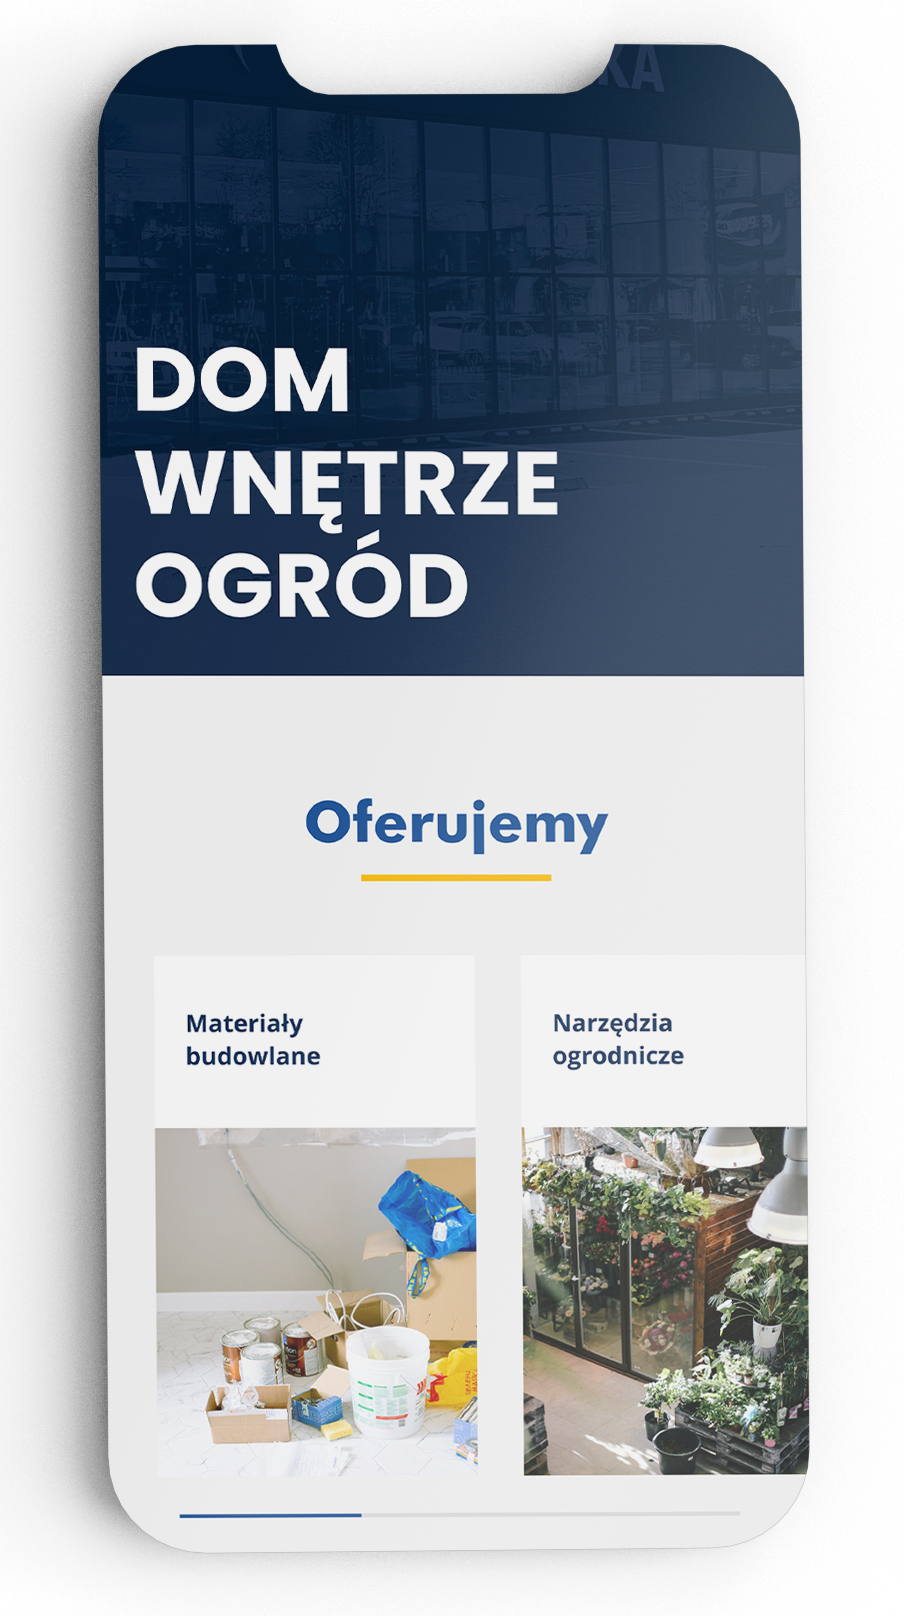
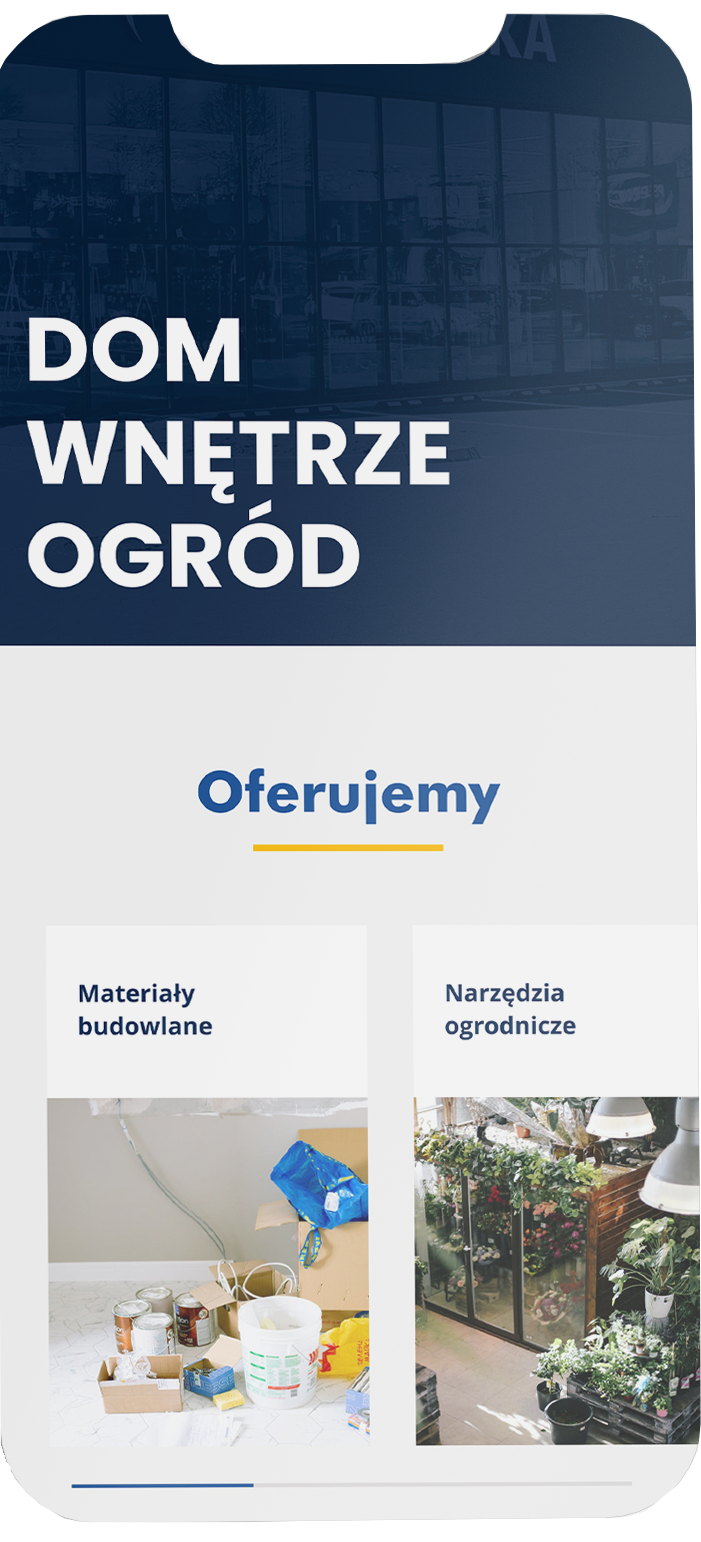
phone image looking good

diff --git a/src/styles/sections/_portfolio.scss b/src/styles/sections/_portfolio.scss
@@ -7,7 +7,7 @@
     flex-direction: column;
 
     .placeholder {
-        padding: 25em;
+        padding: min(25em, 20vw);
         display: flex;
         flex-direction: column;
         justify-content: center;
@@ -67,24 +67,43 @@
                 aspect-ratio: 0.8;
             }
         }
+
         .image {
             // width: 50%;
-            flex-shrink: 0;
-            display: flex;
             overflow: hidden;
+            position: relative;
             background: url("../assets/main-bg.jpg"), lightgray no-repeat;
             background-position-x: 80%;
             background-position-y: 70%;
+            // min-height: 70rem;
 
             img {
-                width: 100%;
-                height: 100%;
-                // align-self: flex-start;
+                background-color: transparent;
+                position: absolute;
+                width: max(60%, 20rem);
+                right: 0;
+                bottom: -10em;
+
+                box-shadow: -40px 50px 63px -24px rgba(0, 0, 0, 0.8);
+                transform-origin: center;
+
                 animation: waving 5s ease-in-out infinite alternate;
 
-                @include mq(small) {
-                    z-index: 2;
+                @include mq(medium) {
+                    width: max(50%, 16rem);
                 }
+
+                @include mq(small) {
+                    top: -10%;
+                    right: -10%;
+                    width: 70%;
+                }
+            }
+
+            @include mq(small) {
+                min-height: auto;
+                z-index: -1;
+                overflow: visible;
             }
         }
 
@@ -96,6 +115,7 @@
 
             .product-container {
                 gap: 2em;
+                aspect-ratio: 1/1.6;
                 width: 80%;
                 height: 80%;
                 display: flex;
@@ -117,12 +137,12 @@
                 }
 
                 h3 {
-                    font-size: 6.25em;
+                    font-size: min(6.25em, 7vw);
                     font-weight: 700;
                     letter-spacing: -0.03em;
 
                     @include mq(small) {
-                        font-size: 2em;
+                        font-size: min(4em, 10vw);
                     }
                 }
 
@@ -135,11 +155,12 @@
                     gap: 1.25em;
                     align-items: center;
                     padding: 1em 2.5em;
-                    font-size: 1.25em;
+                    // font-size: 1.25em;
+                    font-size: min(1.25em, 1.25vw);
                     font-weight: 400;
 
                     @include mq(small) {
-                        font-size: 0.42em;
+                        font-size: min(2em, 2vw);
                     }
 
                     img {
@@ -152,6 +173,7 @@
 
             @include mq(small) {
                 width: 100%;
+                z-index: -2;
             }
         }
 
@@ -163,10 +185,10 @@
 
 @keyframes waving {
     0% {
-        transform: translate(0, 0);
+        transform: translate(0, 0) rotate(-16deg);
     }
 
     100% {
-        transform: translate(0, 2em);
+        transform: translate(0, 2em) rotate(-16deg);
     }
 }

diff --git a/src/styles/sections/_main.scss b/src/styles/sections/_main.scss
@@ -15,7 +15,7 @@
         background-size: cover;
         background-position-y: 20%;
         width: 100%;
-        height: 35em;
+        min-height: 35em;
         display: flex;
         flex-direction: column;
         justify-content: space-between;
@@ -40,7 +40,7 @@
     section {
         padding: 3.37em $sections-padding-x;
         color: $light-90;
-        height: 29em;
+        min-height: 29em;
         background-color: $dark-100;
         display: flex;
         flex-direction: column;
@@ -76,11 +76,24 @@
             align-items: start;
             .buttons {
                 display: flex;
-                align-items: center;
+                justify-content: center;
+                align-items: stretch;
                 p {
-                    padding: 1.25em 3.25em 1.3125em 3.25em;
+                    padding: 1.25em 3.25em;
                     border-radius: 4.3125rem;
                     border: 1px solid $light-90;
+                }
+
+                .arrow-btn {
+                    padding: 1.25em 2em;
+                    background-color: $light-100;
+
+                    svg {
+                        width: 2.25em;
+                        path {
+                            fill: $dark-100;
+                        }
+                    }
                 }
 
                 @include mq(small) {
@@ -92,6 +105,7 @@
         @include mq(small) {
             padding: $sections-padding-x-small;
             padding-bottom: 4em;
+            min-height: auto;
             height: auto;
         }
     }

diff --git a/src/styles/sections/_offer.scss b/src/styles/sections/_offer.scss
@@ -6,7 +6,7 @@
     margin-top: 22em;
 
     .header {
-        padding: 0 19em;
+        padding: 0 12vw;
         padding-bottom: 2.5em;
         display: flex;
         justify-content: space-between;
@@ -71,13 +71,14 @@
 
         @include mq(small) {
             padding: $sections-padding-x-small;
+            // padding: $sections-padding-x-small 5vw;
         }
     }
 
     .offers {
         .offer {
             padding: 9em 0em;
-            padding-left: 19em;
+            padding-left: 12vw;
             display: flex;
             // justify-content: space-between;
             align-items: start;
@@ -85,7 +86,7 @@
             border-bottom: 1px solid $dark-100;
 
             h3 {
-                font-size: 2.75em;
+                font-size: min(2.75em, 5vw);
                 font-weight: 500;
                 letter-spacing: -0.05em;
                 position: relative;
@@ -108,13 +109,17 @@
                 @include mq(small) {
                     font-size: 1.125em;
                 }
+
+                @include mq(medium) {
+                    max-width: 40%;
+                }
             }
 
             .offer-info {
                 display: flex;
                 flex-direction: column;
                 gap: 1em;
-                font-size: 1.25em;
+                font-size: min(1.25em, 2.25vw);
                 font-weight: 300;
                 color: $dark-80;
 

diff --git a/src/components/Section.tsx b/src/components/Section.tsx
@@ -13,10 +13,18 @@ function Section() {
                 <div className="buttons">
                     <p>Portfolio</p>
                     <button className="arrow-btn">
-                        <img
-                            src="./src/assets/right-arrow-white.svg"
-                            alt="arrow-btn"
-                        />
+                        <svg
+                            xmlns="http://www.w3.org/2000/svg"
+                            width="38"
+                            height="8"
+                            viewBox="0 0 38 8"
+                            fill="currentColor"
+                        >
+                            <path
+                                d="M37.3536 4.35356C37.5488 4.15829 37.5488 3.84171 37.3536 3.64645L34.1716 0.464469C33.9763 0.269207 33.6597 0.269207 33.4645 0.464469C33.2692 0.659731 33.2692 0.976314 33.4645 1.17158L36.2929 4L33.4645 6.82843C33.2692 7.02369 33.2692 7.34027 33.4645 7.53554C33.6597 7.7308 33.9763 7.7308 34.1716 7.53554L37.3536 4.35356ZM-4.37114e-08 4.5L37 4.5L37 3.5L4.37114e-08 3.5L-4.37114e-08 4.5Z"
+                                fill="currentColor"
+                            />
+                        </svg>
                     </button>
                 </div>
             </div>

diff --git a/src/styles/components/_slider.scss b/src/styles/components/_slider.scss
@@ -12,7 +12,12 @@
         align-items: center;
         height: 7em;
         gap: 4em;
+
         animation: slider 10s linear infinite;
+
+        @include mq(small) {
+            animation: sliderMobile 20s linear infinite;
+        }
 
         .slider-item {
             display: flex;
@@ -53,6 +58,15 @@
         transform: translateX(100%);
     }
     100% {
-        transform: translateX(-250%);
+        transform: translateX(-2100%);
+    }
+}
+
+@keyframes sliderMobile {
+    0% {
+        transform: translateX(100%);
+    }
+    100% {
+        transform: translateX(-200%);
     }
 }

diff --git a/src/styles/sections/_about.scss b/src/styles/sections/_about.scss
@@ -68,7 +68,7 @@
             padding: 1.5em;
 
             h1 {
-                font-size: 12.5em;
+                font-size: min(12.5em, 22vw);
                 font-weight: 500;
                 letter-spacing: -16px;
                 text-transform: uppercase;
@@ -98,7 +98,7 @@
 
     .mobile {
         display: none;
-        font-size: 7.25em;
+        font-size: min(7.25em, 30vw);
         font-weight: 500;
         text-align: center;
         border-bottom: 1px solid $dark-80;

diff --git a/src/styles/abstracts/_mixins.scss b/src/styles/abstracts/_mixins.scss
@@ -6,13 +6,13 @@
     }
 
     @if ($breakpoint == small) {
-        @media only screen and (max-width: 768px) {
+        @media only screen and (max-width: 40rem) {
             @content;
         }
     }
 
     @if ($breakpoint == medium) {
-        @media only screen and (min-width: 768px) {
+        @media only screen and (max-width: 64rem) {
             @content;
         }
     }

diff --git a/src/sections/PortfolioSection.tsx b/src/sections/PortfolioSection.tsx
@@ -15,7 +15,7 @@ function PortfolioSection() {
             <div className="container">
                 <div className="image">
                     <img
-                        src="./src/assets/mrowka-better.png"
+                        src="./src/assets/mrowka-img-small.png"
                         alt="product image"
                     />
                 </div>

diff --git a/src/styles/sections/_contact.scss b/src/styles/sections/_contact.scss
@@ -3,6 +3,7 @@
 @use "../abstracts/variables" as *;
 
 .contact-section {
+    background-color: $light-100;
     display: flex;
     flex-direction: column;
     align-items: start;

diff --git a/src/styles/base/_base.scss b/src/styles/base/_base.scss
@@ -4,6 +4,10 @@
     font-size: 15px;
 }
 
+html {
+    overflow-x: hidden;
+}
+
 body {
     overflow-x: hidden;
 }
